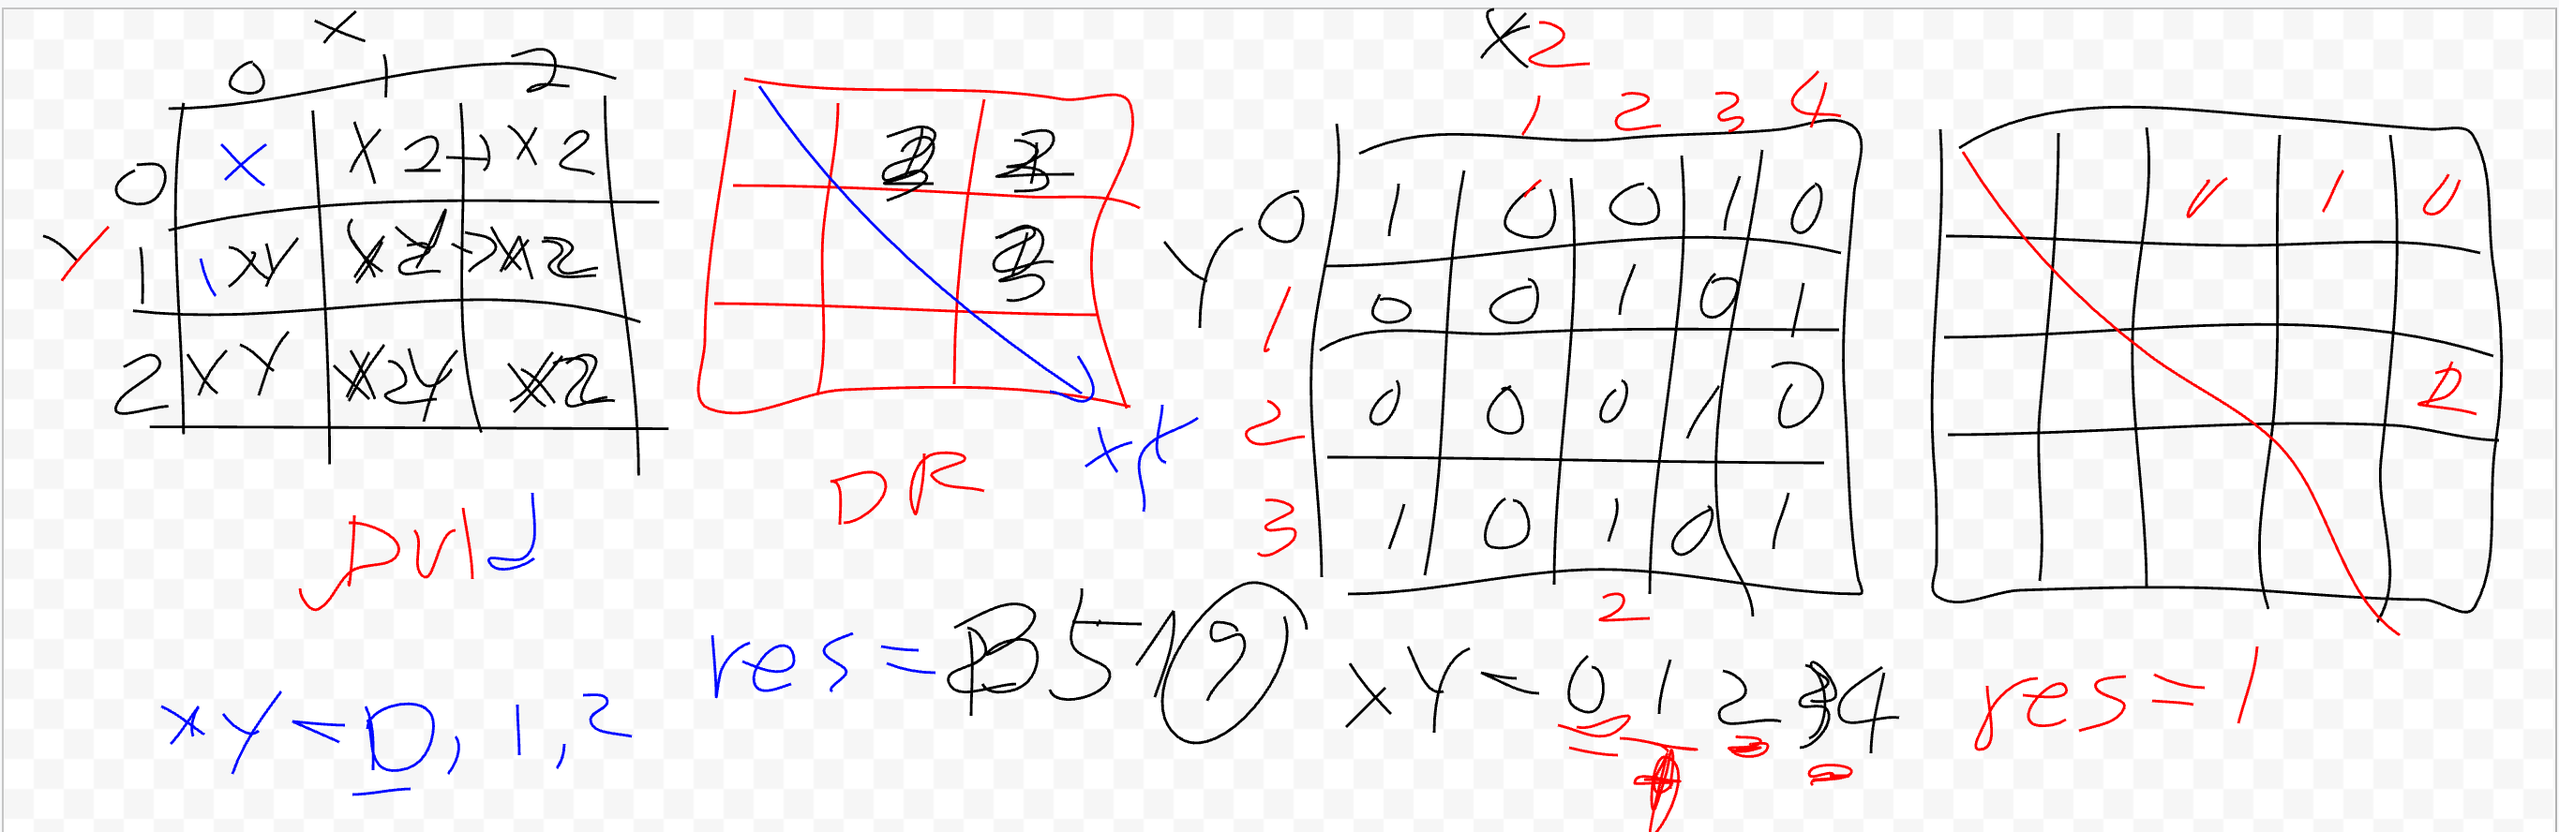
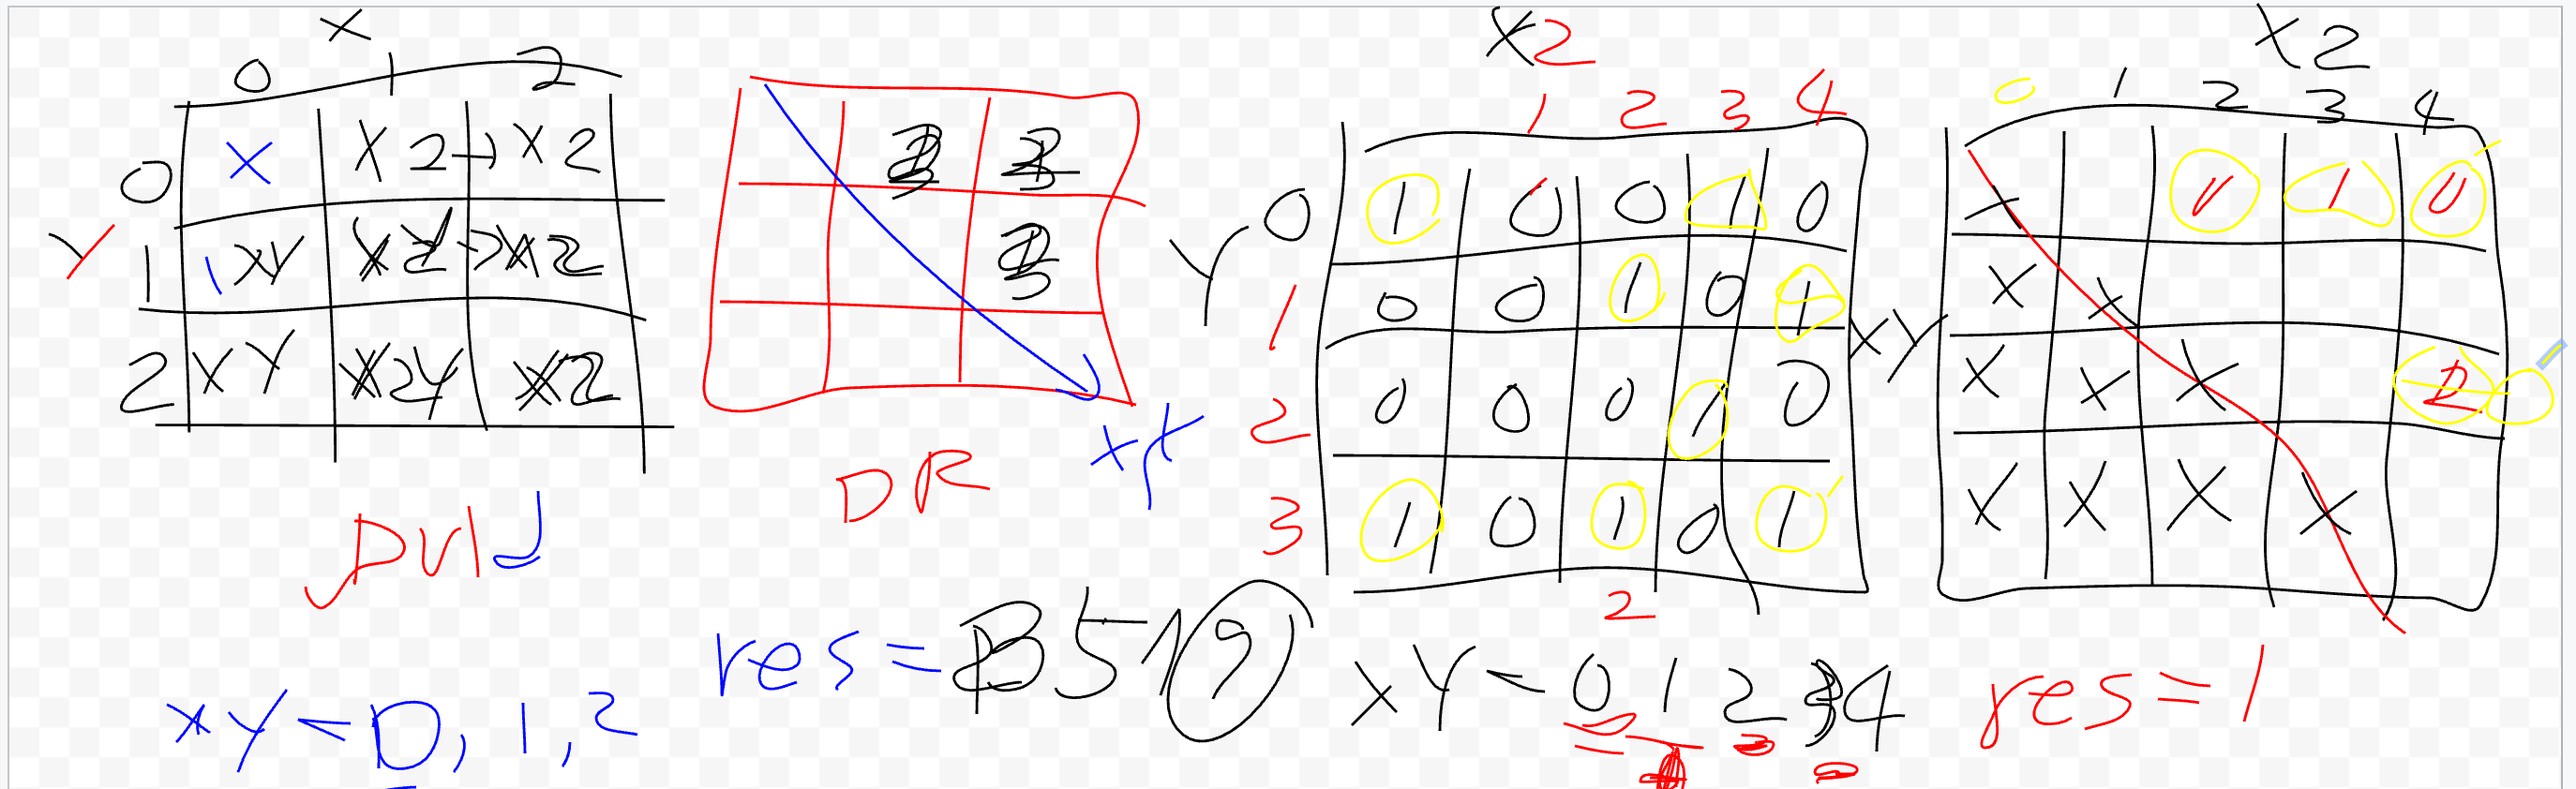
Update 750

diff --git a/leetcode/dynamicprogramming/750-NumberOfCornerRectangles/README.md b/leetcode/dynamicprogramming/750-NumberOfCornerRectangles/README.md
@@ -22,4 +22,8 @@
 ### DP
 아몰랑~!
 ![아몰랑](3.png)
-- 좌표와 dp 간 맵핑.. 모르겠음.
+- dp 는 xy 변수를 y 로, x2 변수를 x 좌표로 처리하여 dp 메모리에 저장
+- 기본 idea 는 y와 x(xy값) 좌표에서 값이 1 인 값만 처리. 0은 그냥 패스
+- y, x(xy) 값이 1이면 xy 값에 1을 더해 x(x2) 좌표를 이동하며 1을 찾아냄.
+- 1을 찾아내면 y(xy), x(x2) 좌표의 dp 값을 카운트 값에 합산하고 dp 값을 1 증가
+- 최종적으로 카운트 값이 전체 사각형의 갯수
